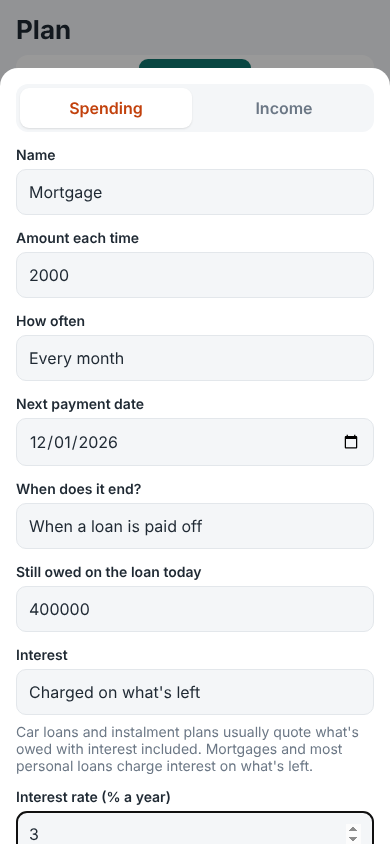
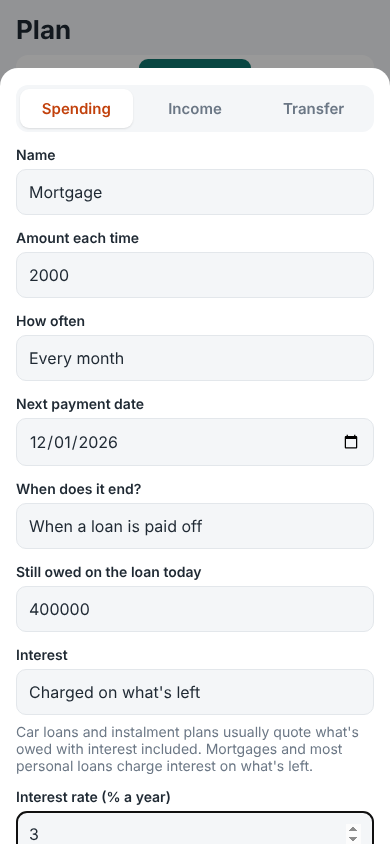
Treat future-dated entries as planned, fixing a huge forecast estimate
Entries logged ahead with a future date (e.g. Shopee PayLater on 10 Dec,
10 Jan, 10 Feb) were counted as spending already done. With little
history, the S$384.46 one in the current pay cycle became a daily rate
and was multiplied by the days left (S$384.46 x 28 = S$10,764.88 of
'Shopping'). Balances also included future entries, so the card showed
next months' instalments as already owed.

- Spending trends use only entries up to today
- Future-dated entries are planned: added once to the period they fall
  in (listed with a calendar icon), counted in the right card statement
  and bill, and in the bank balance path
- balance() is as of today unless a date is given
- History tags planned entries; forecast lines say which are estimates,
  with a note on how each period is worked out
- File version 15

Claude-Session: https://claude.ai/code/session_01HSi74vwebdqixuTPcy4Jr4

Changed region(s): [[0.0923, 0.1232, 0.3692, 0.154], [0.6462, 0.1232, 0.8923, 0.154], [0.4308, 0.1232, 0.5846, 0.154]]

diff --git a/plan.js b/plan.js
@@ -510,7 +510,17 @@ function forecast() {
   for (let p = nextPeriod(current); periods.length < 12; p = nextPeriod(p)) periods.push(p);
 
   // History: complete periods only (not the current one), back to the first logged transaction.
-  const txs = state.transactions.filter(isDayToDay);
+  const txs = state.transactions.filter((x) => isDayToDay(x) && x.date <= t);
+  // Entries logged ahead with a future date (e.g. PayLater instalments) are planned spending/income:
+  // added to the period they fall in, on top of the estimate. Recurring-linked ones are covered by the recurring item.
+  const planned = state.transactions.filter((x) => x.date > t && !x.transferId && x.category !== 'Transfer' && !x.recurringId);
+  const plannedSum = (from, to, pred = () => true) => planned.filter((x) => x.date >= from && x.date <= to && pred(x))
+    .reduce((acc, x) => {
+      if (x.type === 'expense') acc.exp += x.amount; else if (x.refund) acc.exp -= x.amount; else acc.inc += x.amount;
+      if (isCard(x.accountId)) acc.card += x.type === 'expense' ? x.amount : x.refund ? -x.amount : 0;
+      return acc;
+    }, { exp: 0, inc: 0, card: 0 });
+  const plannedIn = (from, to) => planned.filter((x) => x.date >= from && x.date <= to).sort((a, b) => a.date.localeCompare(b.date));
   const first = txs.length ? txs.map((x) => x.date).sort()[0] : null;
   let hist = [];
   let partial = false;
@@ -582,9 +592,12 @@ function forecast() {
     const cats = catProj.map((c) => ({ cat: c.cat, amount: Math.round(c.at(j) * p.days) }));
     const dayExp = cats.reduce((s, c) => s + c.amount, 0);
     const income = recInc + Math.round(incAvg);
+    const pl = plannedSum(p.start, p.end);
     const cardSpend = rec.filter((x) => x.r.type === 'expense' && isCard(x.r.accountId)).reduce((s, x) => s + x.amount, 0) +
-      Math.round(catProj.reduce((s, c, ci) => s + cats[ci].amount * Object.values(c.share).reduce((a, b) => a + b, 0), 0));
-    return { ...p, rec, recExp, recInc, cats, dayExp, income, spend: recExp + dayExp, net: income - recExp - dayExp, cardSpend, bills: [] };
+      Math.round(catProj.reduce((s, c, ci) => s + cats[ci].amount * Object.values(c.share).reduce((a, b) => a + b, 0), 0)) + pl.card;
+    const spend = recExp + dayExp + pl.exp;
+    return { ...p, rec, recExp, recInc, cats, dayExp, plannedList: plannedIn(p.start, p.end), plannedExp: pl.exp,
+      income: income + pl.inc, spend, net: income + pl.inc - spend, cardSpend, bills: [] };
   });
 
   // Card bills: each statement's spending (actual up to today, projected after), due on the card's due date.
@@ -613,7 +626,8 @@ function forecast() {
         const i = rowIdx(w.due);
         const inNow = w.due >= current.start && w.due <= current.end;
         if (i < 0 && !inNow) continue;
-        const actual = cardSpendBetween(a.id, w.from, [w.to, t].sort()[0]);
+        const actual = cardSpendBetween(a.id, w.from, [w.to, t].sort()[0]) +
+          (w.to > t ? plannedSum([w.from, addDaysISO(t, 1)].sort()[1], w.to, (x) => x.accountId === a.id).card : 0);
         const proj = w.to > t ? projected([w.from, addDaysISO(t, 1)].sort()[1], w.to) : 0;
         const amount = Math.max(0, Math.round(actual + proj));
         if (!amount) continue;
@@ -658,14 +672,19 @@ function forecast() {
   // Other income: the period's pay may already be logged; otherwise expect the usual amount.
   const otherIncNow = logged.filter((x) => x.type === 'income' && !x.refund && !x.recurringId).reduce((s, x) => s + x.amount, 0);
   restIn += Math.max(0, incAvg - otherIncNow);
+  const plNow = plannedSum(tomorrow, current.end);
+  restIn += plNow.inc;
+  restOut += plNow.exp - plNow.card; // planned card spending leaves the bank when the bill is due
   const nowRecExp = recNow.filter((x) => x.r.type === 'expense').reduce((s, x) => s + x.amount, 0);
   const nowRecInc = recNow.filter((x) => x.r.type === 'income').reduce((s, x) => s + x.amount, 0);
   const nowDay = nowCats.reduce((s, c) => s + c.amount, 0);
   const nowIncome = nowRecInc + Math.max(otherIncNow, Math.round(incAvg));
-  const nowCardSpend = Math.round(cards.reduce((s, a) => s + cardSpendBetween(a.id, current.start, t), 0) + cardShareRest + cardRest);
+  const nowCardSpend = Math.round(cards.reduce((s, a) => s + cardSpendBetween(a.id, current.start, t), 0) + cardShareRest + cardRest) + plNow.card;
+  const nowSpend = nowRecExp + nowDay + plNow.exp;
   const nowRow = {
     ...current, current: true, short: 'Now', rec: recNow, recExp: nowRecExp, recInc: nowRecInc, cats: nowCats,
-    dayExp: nowDay, income: nowIncome, spend: nowRecExp + nowDay, net: nowIncome - nowRecExp - nowDay,
+    plannedList: plannedIn(tomorrow, current.end), plannedExp: plNow.exp,
+    dayExp: nowDay, income: nowIncome + plNow.inc, spend: nowSpend, net: nowIncome + plNow.inc - nowSpend,
     cardSpend: nowCardSpend, bills: nowBills.sort((a, b) => a.due.localeCompare(b.due))
   };
   nowRow.cardBill = nowRow.bills.reduce((s, b) => s + b.amount, 0);
@@ -772,7 +791,7 @@ function renderForecast() {
     const avgCard = f.future.reduce((s, r) => s + r.cardSpend, 0) / 12;
     html += `<p class="muted small">💳 About ${money(avgCard)} a ${word} of your spending goes on credit cards. It leaves your bank account when each card's bill is due, after its statement closes. Tap a bar to see which bills are due in it.</p>`;
   }
-  html += `<p class="muted small">${basis} Card payments, transfers, and transactions linked to a recurring payment, are left out of day-to-day spending so nothing is counted twice — when you log an instalment or loan payment, link it to its recurring payment.</p>`;
+  html += `<p class="muted small">How each ${word} is worked out: 🔁 recurring payments on their dates; "(estimate)" lines are your day-to-day spending per category, from what you've logged so far (a daily rate × the days in the ${word}); 📅 lines are entries you've logged with a future date. ${basis} Card payments, transfers, and transactions linked to a recurring payment, are left out of the estimate so nothing is counted twice.</p>`;
 
   el.innerHTML = html;
   bindForecastControls(f);
@@ -784,7 +803,9 @@ function renderForecast() {
     $('#fcMonth').innerHTML = `<h2>${esc(r.label)}${r.current ? ' <span class="tag">now</span>' : ''}</h2>` +
       (r.current ? `<p class="muted small" style="margin:0 0 6px">Logged so far, plus an estimate for the ${daysBetween(today(), r.end)} day(s) left.</p>` : '') +
       r.rec.filter((x) => x.r.type === 'expense').map((x) => line(`🔁 ${esc(x.r.name)}${x.count > 1 ? ` ×${x.count}` : ''}${isCard(x.r.accountId) ? ' 💳' : ''}`, money(x.amount))).join('') +
-      r.cats.filter((c) => c.amount > 0).map((c) => line(esc(c.cat), money(c.amount))).join('') +
+      r.cats.filter((c) => c.amount > 0).map((c) => line(`${esc(c.cat)} <span class="muted small">(estimate)</span>`, money(c.amount))).join('') +
+      (r.plannedList || []).filter((x) => x.type === 'expense' || x.refund).map((x) => line(`📅 ${esc(x.category)}${x.note ? ' · ' + esc(x.note) : ''} <span class="muted small">(${shortDate(x.date)}${isCard(x.accountId) ? ', 💳' : ''})</span>`,
+        money(x.refund ? -x.amount : x.amount))).join('') +
       line('Total spending', money(r.spend), 'total') +
       line('Expected income', money(r.income)) +
       line('Left over', `<span class="${r.net < 0 ? 'neg' : 'pos'}">${money(r.net, true)}</span>`, 'total') +

diff --git a/app.js b/app.js
@@ -123,13 +123,15 @@ function nextDueDate(a) {
   return last.due >= today() ? last.due : cur.due;
 }
 
+// Balance as of a date (default: today). Entries dated in the future are planned and don't count yet.
 function balance(accountId, upToDate) {
   const acc = state.accounts.find((a) => a.id === accountId);
   if (!acc) return 0;
+  const until = upToDate || today();
   let total = acc.start;
   for (const t of state.transactions) {
     if (t.accountId !== accountId) continue;
-    if (upToDate && t.date > upToDate) continue;
+    if (t.date > until) continue;
     total += t.type === 'income' ? t.amount : -t.amount;
   }
   return total;
@@ -275,7 +277,7 @@ function renderTx() {
   for (const t of txs) {
     if (t.date !== lastDate) { html += `<div class="date-head">${niceDate(t.date)}</div>`; lastDate = t.date; }
     const signed = t.type === 'income' ? t.amount : -t.amount;
-    const refundTag = t.refund ? '<span class="tag">money back</span>' : '';
+    const refundTag = (t.refund ? '<span class="tag">money back</span>' : '') + (t.date > today() ? '<span class="tag planned">planned</span>' : '');
     let title = t.category || (t.type === 'income' ? 'Income' : 'Expense');
     let sub = [txFilter === 'all' ? accountName(t.accountId) : '', t.note].filter(Boolean).map(esc).join(' · ');
     if (t.transferId) {

diff --git a/index.html b/index.html
@@ -14,7 +14,7 @@
   <meta name="apple-mobile-web-app-title" content="Money">
   <meta name="apple-mobile-web-app-status-bar-style" content="default">
   <!-- When app files change, bump ?v= here and the version in sw.js so phones load matching files. -->
-  <link rel="stylesheet" href="style.css?v=14">
+  <link rel="stylesheet" href="style.css?v=15">
 </head>
 <body>
   <header class="topbar">
@@ -148,7 +148,7 @@
 
   <div id="toast" class="toast hidden"></div>
 
-  <script src="app.js?v=14"></script>
-  <script src="plan.js?v=14"></script>
+  <script src="app.js?v=15"></script>
+  <script src="plan.js?v=15"></script>
 </body>
 </html>

diff --git a/style.css b/style.css
@@ -307,3 +307,4 @@ label.check input { width: 22px; height: 22px; flex: none; }
 /* Transfers */
 .link-btn { border: 0; background: none; color: var(--primary); font: inherit; font-size: 14px; font-weight: 600; text-align: left; padding: 0; cursor: pointer; }
 #xferForm .swap { align-self: center; font-size: 22px; margin: -8px 0 -10px; color: var(--primary); }
+.tag.planned { color: var(--muted); background: var(--line); }

diff --git a/sw.js b/sw.js
@@ -1,7 +1,7 @@
 // Service worker: lets the app open with no internet connection.
 // When you change any app file, bump this version number AND the ?v= numbers in index.html
 // so phones get the update with all files matching.
-const VERSION = 14;
+const VERSION = 15;
 const CACHE = 'money-tracker-v' + VERSION;
 const FILES = [
   './',

diff --git a/README.md b/README.md
@@ -7,7 +7,7 @@ Plain HTML, CSS and JavaScript — no build step. **All data stays on your phone
 - Multiple accounts (e.g. Savings, Spending) with a starting balance
 - **Transfers** between your own accounts (e.g. salary to a savings account): **⇄ Transfer** on the Accounts screen. A transfer is two linked entries (out of one account, into the other), never counted as spending or income; tap either one in History to edit or delete it. Paying a card bill is a transfer to the card. Regular transfers (e.g. part of your salary into savings every payday) can be set up under Plan → Recurring → **Transfer**; they're listed with what's due and can be logged in one tap.
 - Credit cards: log purchases on a card, see what you owe, what you spent this month and last, the next due date and available credit. **Pay card bill** moves money from a bank account to the card (not counted as spending). Reconcile a card by typing the amount owed shown by your bank. Set the card's statement closing day and due day so bills are worked out per statement cycle.
-- Log expenses and income: amount, category, date, note (tap an entry to edit or delete it)
+- Log expenses and income: amount, category, date, note (tap an entry to edit or delete it). Entries dated in the future (e.g. PayLater instalments logged ahead) are **planned**: they're tagged in History, don't affect today's balances, and are added to the forecast in the period (and card bill) they fall in.
 - **Money back**: log refunds, or a friend paying you back for something you paid for, against the spending category it was for (e.g. Food). It goes into the account like income but is taken off that category, so category totals, the pie chart and the forecast show what you spent yourself.
 - Categories for every transaction, with a category filter in History. History also has a pie chart of spending by category for this month (or pay cycle), with ‹ › to look at earlier ones; tap a category to see its transactions. Add, rename or remove categories under **Backup → Manage categories**.
 - Daily reconciliation: attach a screenshot of your bank balance, type in the balance shown, and see the difference from the app's balance. Optionally add an adjustment to make them match, and choose which category the adjustment belongs to.
